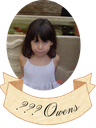
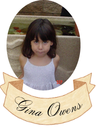
Added endgame

Changed region(s): [[0.1562, 0.75, 0.875, 0.9375]]

diff --git a/potion.js b/potion.js
@@ -11,11 +11,18 @@ const ingredients = [
 // Change this sequence to update the puzzle's recipe.
 const recipe = ['salt', 'rubies', 'sage', 'knotgrass', 'moonstone', 'lavender', 'rosemary'];
 const dialog = document.getElementById('potionDialog');
-const status = document.getElementById('brewStatus');
-const progress = document.getElementById('brewProgress');
 const cauldron = document.getElementById('cauldronArt');
 const shelf = document.getElementById('ingredientGrid');
 const brewButton = document.getElementById('brewPotion');
+const brewingView = document.getElementById('brewingView');
+const resultView = document.getElementById('potionResult');
+const endGame = document.getElementById('endGame');
+const potionImage = document.getElementById('potionImage');
+const endGameImage = document.getElementById('endGameImage');
+const resetButton = document.getElementById('resetPotion');
+const returnToGarden = document.getElementById('returnToGarden');
+let phase = 'mixing';
+let brewTimer = null;
 let added = [];
 let brewResult = null;
 
@@ -37,21 +44,17 @@ for (const ingredient of ingredients) {
 
 function renderBrew() {
   const complete = brewResult === 'success';
-  if (progress) progress.textContent = `${added.length} of ${recipe.length} ingredients added`;
-  cauldron.classList.toggle('brewing', added.length > 0);
-  cauldron.classList.toggle('complete', complete);
+  cauldron.classList.toggle('brewing', phase === 'brewing');
+  resetButton.disabled = phase === 'brewing';
   brewButton.disabled = added.length !== recipe.length || brewResult !== null;
   for (const button of shelf.querySelectorAll('button')) {
-    button.disabled = complete || added.includes(button.dataset.ingredient);
+    button.disabled = phase !== 'mixing' || complete || added.includes(button.dataset.ingredient);
   }
 }
 
 function addIngredient(ingredient) {
-  if (added.length === recipe.length || added.includes(ingredient.id)) return;
+  if (phase !== 'mixing' || added.length === recipe.length || added.includes(ingredient.id)) return;
   added.push(ingredient.id);
-  if (status) status.textContent = added.length === recipe.length
-    ? 'All ingredients added. Click Brew to test your potion.'
-    : `${ingredient.name} added. Choose your next ingredient.`;
   renderBrew();
 }
 
@@ -59,10 +62,19 @@ brewButton.addEventListener('click', () => {
   if (added.length !== recipe.length || brewResult !== null) return;
   const correct = recipe.every((id, index) => added[index] === id);
   brewResult = correct ? 'success' : 'failure';
-  if (status) status.textContent = correct
-    ? 'The potion glows gold. You followed the recipe perfectly — your potion is complete!'
-    : 'The potion fizzles. That order did not work. Click Reset to try a different order.';
+  phase = 'brewing';
   renderBrew();
+  brewTimer = setTimeout(() => {
+    brewTimer = null;
+    phase = 'ready';
+    potionImage.src = correct
+      ? 'assets/potionassets/goodpotion.png'
+      : `assets/potionassets/badpotion${Math.floor(Math.random() * 4) + 1}.png`;
+    brewingView.hidden = true;
+    resultView.hidden = false;
+    document.getElementById('drinkPotion').focus();
+    renderBrew();
+  }, 1800);
 });
 
 document.getElementById('openPotion').addEventListener('click', () => dialog.showModal());
@@ -73,10 +85,42 @@ dialog.addEventListener('click', event => {
   if (event.clientX < bounds.left || event.clientX > bounds.right ||
       event.clientY < bounds.top || event.clientY > bounds.bottom) dialog.close();
 });
-document.getElementById('resetPotion').addEventListener('click', () => {
+function resetPotion() {
+  clearTimeout(brewTimer);
+  brewTimer = null;
   added = [];
   brewResult = null;
-  if (status) status.textContent = 'The cauldron is ready. Choose your first ingredient.';
+  phase = 'mixing';
+  brewingView.hidden = false;
+  resultView.hidden = true;
+  endGame.hidden = true;
+  returnToGarden.hidden = true;
   renderBrew();
+}
+resetButton.addEventListener('click', resetPotion);
+returnToGarden.addEventListener('click', () => {
+  resetPotion();
+  dialog.close();
+  document.getElementById('openPotion').focus();
 });
+document.getElementById('discardPotion').addEventListener('click', () => {
+  resetPotion();
+  shelf.querySelector('button').focus();
+});
+document.getElementById('drinkPotion').addEventListener('click', () => {
+  if (phase !== 'ready') return;
+  phase = 'finished';
+  const won = brewResult === 'success';
+  const message = won ? 'You broke the curse.' : "You've died.";
+  endGameImage.hidden = false;
+  endGameImage.alt = message;
+  endGameImage.src = `assets/potionassets/${won ? 'endGameWin' : 'endGameDie'}.png`;
+  document.getElementById('endGameText').textContent = won ? message : '';
+  resultView.hidden = true;
+  endGame.hidden = false;
+  returnToGarden.hidden = won;
+  (won ? document.getElementById('closePotion') : returnToGarden).focus();
+});
+// Keep the outcome readable until the ending artwork is supplied.
+endGameImage.addEventListener('error', () => { endGameImage.hidden = true; });
 renderBrew();

diff --git a/library.js b/library.js
@@ -10,6 +10,30 @@ const bookTitleOptions = document.getElementById("bookTitles");
 const toggleBooks = document.getElementById("toggleBooks");
 const librarySearch = document.getElementById("librarySearch");
 const libraryCat = document.getElementById("libraryCat");
+const riddleSheet = document.getElementById("riddleSheet");
+const riddleDialog = document.getElementById("riddleDialog");
+const riddleFlip = document.getElementById("riddleFlip");
+const riddleImage = document.getElementById("riddleImage");
+let riddleBack = false;
+
+function renderRiddle() {
+  riddleImage.src = "assets/libraryassets/" + (riddleBack ? "backside.png" : "frontside.png");
+  riddleImage.alt = (riddleBack ? "Back" : "Front") + " of the riddle page";
+  riddleFlip.setAttribute("aria-label", "Turn the page over to the " + (riddleBack ? "front" : "back"));
+}
+riddleSheet.addEventListener("click", function() {
+  riddleBack = false;
+  renderRiddle();
+  riddleDialog.showModal();
+});
+riddleFlip.addEventListener("click", function() {
+  riddleBack = !riddleBack;
+  renderRiddle();
+});
+riddleDialog.addEventListener("click", function(event) {
+  if (event.target === riddleDialog) riddleDialog.close();
+});
+
 const uniqueTitles = [...new Set(bookTitles)].sort(function(a, b) {
   return a.localeCompare(b);
 });
@@ -124,10 +148,9 @@ async function openBook(title) {
 
   libraryCat.hidden = true;
   const isAlice = title === "Alice in Wonderland";
-  overlayImage.src = isAlice
-    ? "assets/libraryassets/bookwithriddle.png"
-    : "assets/libraryassets/bookwithoutriddle.png";
-  overlayImage.alt = isAlice ? "Open book with a riddle" : "Open book";
+  overlayImage.src = "assets/libraryassets/bookwithoutriddle.png";
+  overlayImage.alt = "Open book";
+  riddleSheet.hidden = !isAlice;
   imageOverlay.hidden = false;
   closeImageOverlay.focus();
 }
@@ -174,6 +197,8 @@ document.addEventListener("click", function(event) {
 
 function closeImage() {
   if (imageOverlay.hidden) return;
+  riddleDialog.close();
+  riddleSheet.hidden = true;
   imageOverlay.hidden = true;
   overlayImage.removeAttribute("src");
   libraryCat.className = "library-cat";
@@ -189,5 +214,12 @@ imageOverlay.addEventListener("click", function(event) {
   if (event.target === imageOverlay) closeImage();
 });
 document.addEventListener("keydown", function(event) {
-  if (event.key === "Escape") closeImage();
+  if (event.key === "Escape") {
+    if (riddleDialog.open) {
+      event.preventDefault();
+      riddleDialog.close();
+    } else {
+      closeImage();
+    }
+  }
 });

diff --git a/potion.html b/potion.html
@@ -21,22 +21,33 @@
   <dialog id="potionDialog" aria-label="Brew a potion">
     <div class="potion-panel">
       <button class="close-button" id="closePotion" aria-label="Close potion">×</button>
-      <div class="brewing-layout">
+      <div class="brewing-layout" id="brewingView">
         <section class="cauldron-area" aria-label="Your potion">
           <div class="cauldron-art" id="cauldronArt">
             <div class="potion-glow" aria-hidden="true"></div>
             <img class="cauldron-image" src="assets/potionassets/cauldron.png" alt="A black cat sitting beside a copper cauldron.">
           </div>
-          <p id="brewStatus" class="brew-status" role="status" aria-live="polite" aria-atomic="true">The cauldron is ready. Choose your first ingredient.</p>
-          <p id="brewProgress">0 of 7 ingredients added</p>
-          <button class="brew-button" id="brewPotion" disabled>Brew</button>
-          <button class="reset-button" id="resetPotion">Reset</button>
+          <br> <br><br>
+          <button class="brew-button" id="brewPotion" disabled>BREW</button>
+          <button class="reset-button" id="resetPotion">RESET</button>
         </section>
         <section class="ingredient-shelf" aria-labelledby="ingredientsTitle">
           <h3 id="ingredientsTitle">Ingredients</h3>
           <div class="ingredient-grid" id="ingredientGrid"></div>
         </section>
       </div>
+      <section class="result-view" id="potionResult" aria-label="Your brewed potion" hidden>
+        <img id="potionImage" class="result-image" alt="A freshly brewed potion">
+        <div>
+          <button class="brew-button" id="drinkPotion">Drink</button>
+          <button class="reset-button" id="discardPotion">Discard</button>
+        </div>
+      </section>
+      <section class="result-view" id="endGame" aria-label="Potion outcome" hidden>
+        <img id="endGameImage" class="ending-image" alt="">
+        <p id="endGameText" role="status"></p>
+        <button class="reset-button" id="returnToGarden" hidden>Back in Time</button>
+      </section>
     </div>
   </dialog>
 </body>

diff --git a/potion.css b/potion.css
@@ -23,9 +23,9 @@ h2 { font-weight: normal; font-size: clamp(25px, 4vw, 36px); margin: 8px 0; }
 .cauldron-area { text-align: center; padding: 20px 0; }
 .cauldron-art { position: relative; isolation: isolate; }
 .cauldron-image { position: relative; display: block; width: 100%; height: auto; }
-.potion-glow { position: absolute; left: 36%; top: 11%; width: 52%; height: 15%; border-radius: 50%; background: #8ea987; filter: blur(12px); opacity: 0; transition: opacity .4s, background .4s; z-index: 1; pointer-events: none; }
-.cauldron-art.brewing .potion-glow { opacity: .65; }
-.cauldron-art.complete .potion-glow { background: #e6be52; opacity: .95; }
+.potion-glow { position: absolute; left: 36%; top: 11%; width: 52%; height: 15%; border-radius: 50%; background: #66ff70; filter: blur(12px); opacity: 0; transition: opacity .4s, background .4s; z-index: 1; pointer-events: none; }
+.cauldron-art.brewing .potion-glow { opacity: .95; }
+
 .brew-status { min-height: 3em; line-height: 1.5; margin: 20px 0 8px; }
 #brewProgress { color: #696347; font-size: 14px; }
 .reset-button { padding: 10px 18px; border: 1px solid #899276; border-radius: 6px; background: transparent; color: #344533; }
@@ -47,3 +47,9 @@ h3 { font-size: 19px; font-weight: normal; margin: 0 0 14px; }
   .garden-header { padding: 16px; }
 }
 @media (prefers-reduced-motion: reduce) { *, *::before, *::after { transition: none !important; } }
+
+[hidden] { display: none !important; }
+.result-view { text-align: center; padding: 30px 0; }
+.result-image { display: block; width: min(100%, 360px); height: 50vh; object-fit: contain; margin: 0 auto 24px; }
+.ending-image { display: block; max-width: 100%; max-height: 70vh; object-fit: contain; margin: auto; }
+.reset-button:disabled { opacity: .45; cursor: default; }

diff --git a/library.css b/library.css
@@ -221,3 +221,15 @@
   box-shadow: 0 0 8px #e8c783, 0 3px 8px #160c09aa, inset 0 0 8px #a8794555;
 }
 
+
+/* The loose sheet stays aligned with the right-hand book page. */
+.open-book { position: relative; width: min(98vw, 142vh); }
+.library-page .open-book .overlay-image { width: 100%; height: auto; }
+.riddle-sheet { position: absolute; left: 53%; top: 13%; width: 36%; padding: 0; border: 0; background: transparent; cursor: pointer; transform: rotate(2deg); }
+.riddle-sheet img { display: block; width: 100%; height: auto; filter: drop-shadow(3px 5px 5px #0005); }
+.riddle-sheet[hidden] { display: none; }
+.riddle-sheet:focus-visible, .riddle-flip:focus-visible { outline: 2px solid #e6cea1; outline-offset: 4px; }
+.riddle-dialog { width: fit-content; max-width: 94vw; max-height: 94vh; padding: 0; border: 0; background: transparent; overflow: visible; }
+.riddle-dialog::backdrop { background: #0009; }
+.riddle-flip { display: block; padding: 0; border: 0; background: transparent; cursor: pointer; }
+.riddle-flip img { display: block; width: auto; height: auto; max-width: 94vw; max-height: 94vh; filter: drop-shadow(0 10px 20px #0006); }

diff --git a/library.html b/library.html
@@ -42,7 +42,17 @@
   <!-- SIMPLE IMAGE OVERLAY -->
   <div class="overlay" id="imageOverlay" hidden>
     <button class="close-button" id="closeImageOverlay" aria-label="Close book">×</button>
-    <img id="overlayImage" class="overlay-image" alt="" />
+    <div class="open-book">
+      <img id="overlayImage" class="overlay-image" alt="" />
+      <button class="riddle-sheet" id="riddleSheet" aria-label="Pick up the riddle page" hidden>
+        <img src="assets/libraryassets/frontside.png" alt="Front of the riddle page" />
+      </button>
+    </div>
   </div>
+  <dialog class="riddle-dialog" id="riddleDialog" aria-label="Riddle page">
+    <button class="riddle-flip" id="riddleFlip" aria-label="Turn the page over to the back">
+      <img id="riddleImage" src="assets/libraryassets/frontside.png" alt="Front of the riddle page" />
+    </button>
+  </dialog>
 </body>
 </html>
